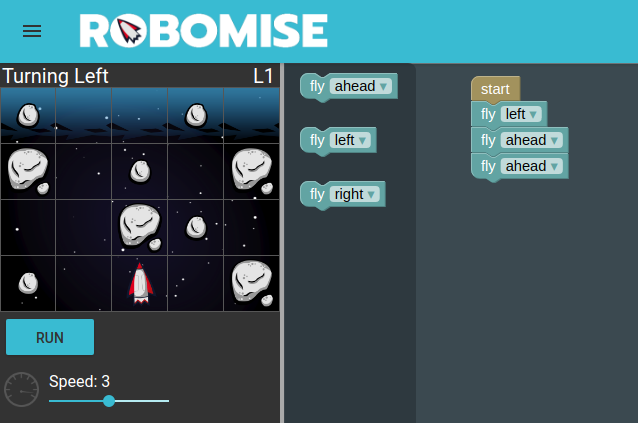
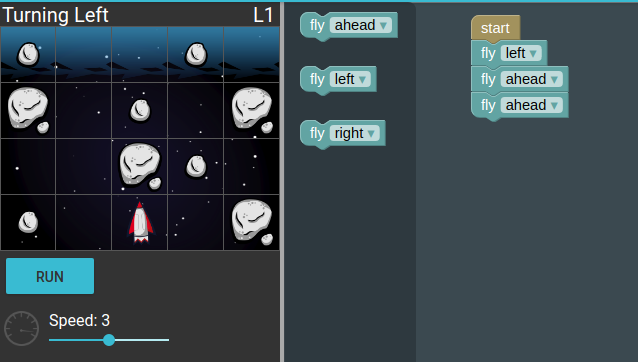
Refine chapter 1

diff --git a/01-introduction.tex b/01-introduction.tex
@@ -10,22 +10,39 @@
 To prepare humanity for the next 100 years, we need more of our children to learn computer programming skills, regardless of their future profession. Along with reading and writing, the ability to program is going to define what an educated person is.}
 {S. Khan}
 
+Programming is becoming an essential skill to learn.
+Not only is it useful in increasing number of professions,
+but also it develops abstract thinking and problem solving ability. % cite
+Our mission is to help children to learn basic programming efficiently,
+while supporting their motivation for further learning.
+For this purpose, we build a personalized system for learning introductory
+programming, RoboMission\footnote{\url{en.robomise.cz}},
+that aims to adapt to the skills of the student
+to provide an optimal learning experience.
+
+How to build such a system? (make this paragraph an outline)
+- use strategies for easier learning and for supporint motivation
+  (inspiry by existing system, understand human limitations and needs)
+- use AI techniques (inspired by the AL systems in other domain)
+- improve iteratively
+
+Can we use the artificial intelligence to optimize learning of programming?
+
 Artificial intelligence proved to be a powerful tool for tackling difficult problems,
 from playing chess to driving autonomous cars. % TODO: references
-Can we use the artificial intelligence to optimize learning of programming?
 %This thesis explores how we can use artificial intelligence to optimize
 %learning of introductory programming.
 %This thesis explores how can be artificial intelligence used to optimize
 %learning of introductory programming.
 Adaptive learning systems have been already successfully used in many domains
-\cite{alg.evaluation-geography,
-matmat.response-times, mathsgarden, sqltutor}.
+\cite{mathsgarden, alg.evaluation-geography, matmat.response-times}
+%, sqltutor}.
 % maths += Cognitive Tutor (?mastery-learning-scale), ASSiSTments (Koedinger
 % 2010), ALEKS
-% TODO: the last 3 are all maths -> find another domain
+% TODO: find another domain (avoid another math)
 Nevertheless, the most popular introductory programming tutorials,
 Hours of Code \cite{hour-of-code},
-offer the same fixed sequence of tasks for everybody,
+offer the same sequence of tasks for everybody,
 leading to a suboptimal experience.
 Artificial intelligence can be used to personalize the sequence of tasks.
 % for each student.
@@ -36,6 +53,20 @@ activity (\cref{fig:flow}).
 This \emph{state of flow} \cite{flow}
 is essential for the optimal learning experience
 \cite{adaptive-practice}.
+
+
+
+\imgW[0.9]{robomission-task1}%
+  {RoboMission is a web application for learning introductory programming.
+   The left panel displays a space themed grid world. In the workspace on
+   the right, students build programs using blocks describing actions
+   such as \texttt{fly left} and \texttt{fly right}.
+   The task is to create a program that would lead the spaceshipt to the last row.}
+%  {RoboMission is a web application for learning introductory programming %
+%   using space themed grid world and block-based programming.}
+
+
+
 
 \begin{figure}[htb]
   \centering
@@ -77,10 +108,6 @@ and allow us to collect data that we need to support or reject our hypotheses.
 % NOTE: RoboMission = app for efficient and engaging learning of introductory
 % programming for children (= mission)
 
-% TODO: English screenshot.
-\imgW[0.9]{robomission-task1}%
-  {RoboMission is a web application for learning introductory programming %
-   using space themed grid world and block-based programming.}
 
 We first look at how the introductory programming is taught
 in existing online learning systems
